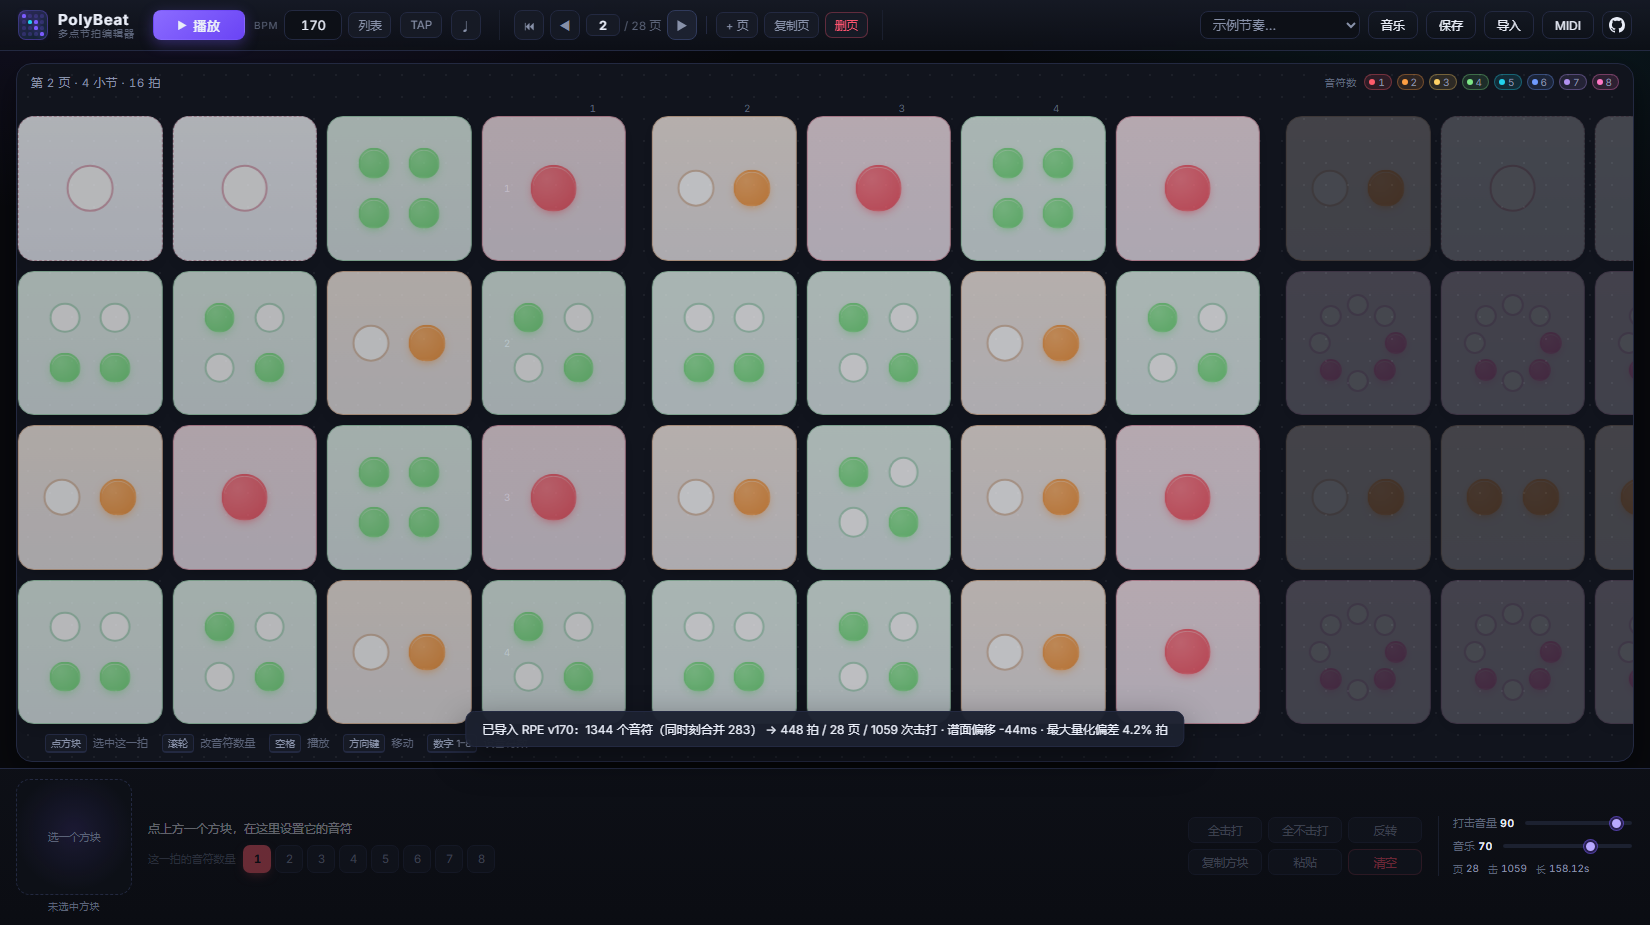
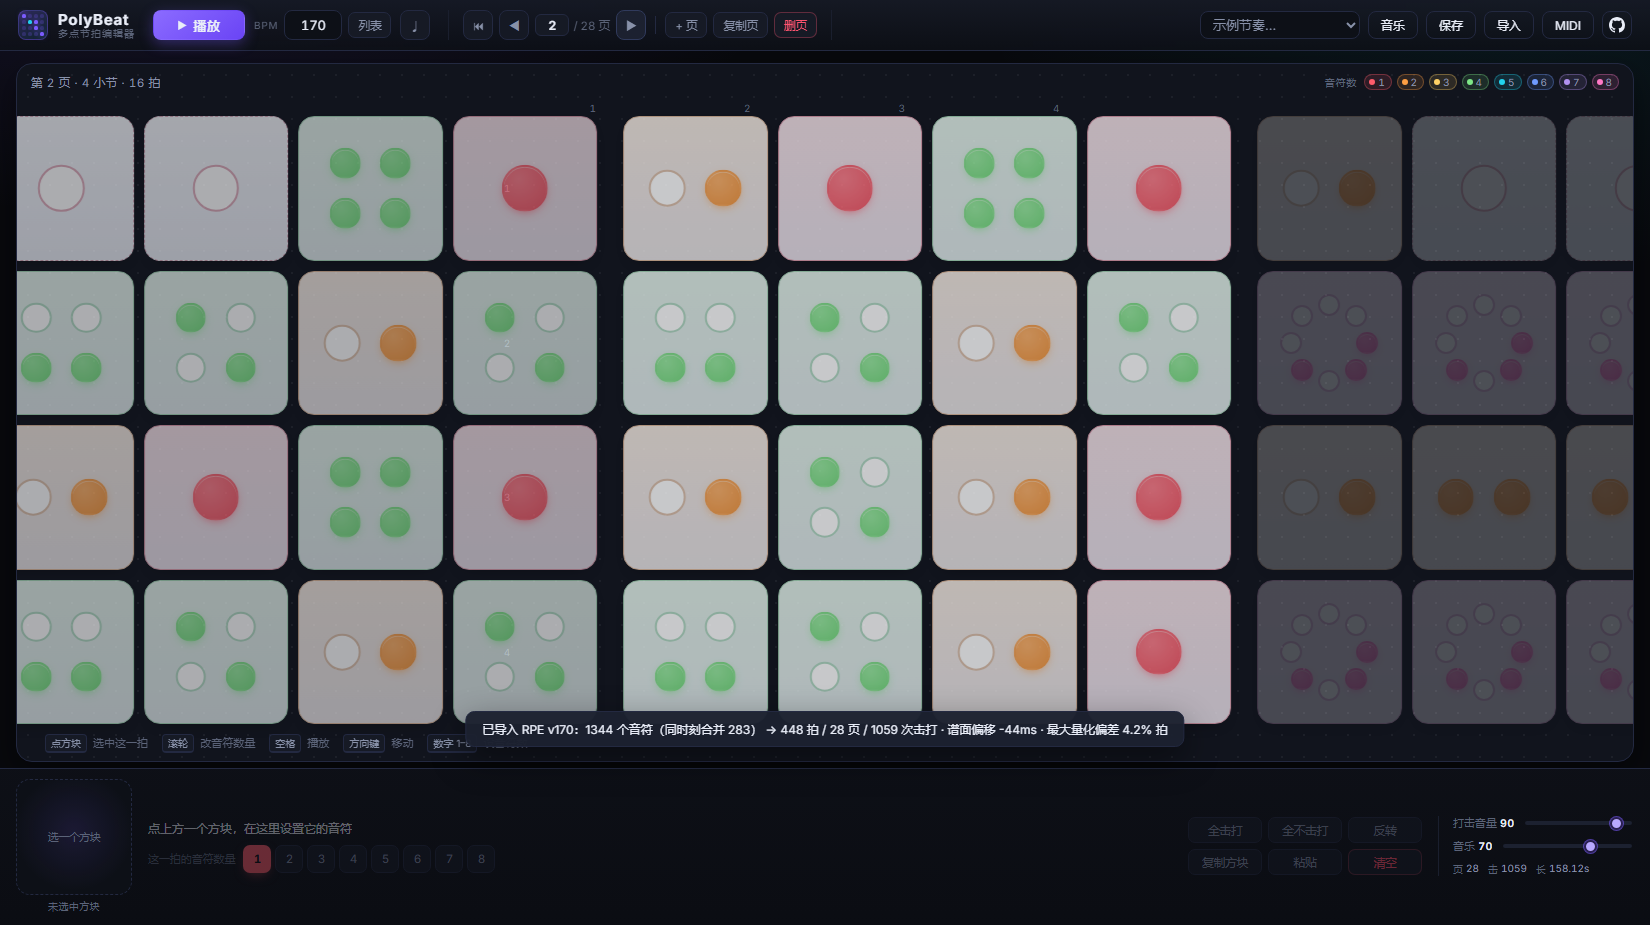
删掉 TAP 测速按钮

diff --git a/js/app.js b/js/app.js
@@ -711,25 +711,6 @@
       }
     });
 
-    const taps = [];
-    $('btnTap').addEventListener('click', () => {
-      const now = performance.now();
-      taps.push(now);
-      while (taps.length && now - taps[0] > 4000) taps.shift();
-      if (taps.length >= 2) {
-        const gaps = [];
-        for (let i = 1; i < taps.length; i++) gaps.push(taps[i] - taps[i - 1]);
-        const avg = gaps.reduce((a, b) => a + b, 0) / gaps.length;
-        if (avg > 150) {
-          const beat = currentBeatNo();
-          const tapped = Math.round((60000 / avg) * 100) / 100;
-          Project.setBpmAtBeat(beat, tapped);
-          refreshBpmInput();
-          UI.status(`第 ${beat} 拍起 ${Project.bpmAtBeat(beat)} BPM`);
-        }
-      }
-    });
-
     document.addEventListener('keydown', onKeydown);
   }
 

diff --git a/index.html b/index.html
@@ -25,7 +25,6 @@
       <input id="bpm" type="number" min="4" max="2000" step="0.01" value="100">
       <button id="btnTempo" class="btn btn-mini" title="BPM 列表：可以在指定拍数处变速">列表</button>
     </div>
-    <button id="btnTap" class="btn btn-mini" title="连点四次测速">TAP</button>
     <button id="btnMetro" class="btn btn-icon" title="节拍器开关" aria-pressed="false">♩</button>
   </div>
 

diff --git a/README.md b/README.md
@@ -90,7 +90,7 @@ node tools/embed-hit.js
 ## 播放
 
 - 支持逐拍变速（见上节），播放时每一拍按自己那段的速度走。
-- 支持连点 **TAP** 测速；节拍器独立开关。
+- 节拍器独立开关（工具栏的 ♩）。
 - 播放从当前页开始，**自动翻页**，播到最后一页再回到第一页循环。
 - **音乐比谱面长的时候不会提前切回第一页**：谱面的最后一拍放完，播放会停在最后一页**走空拍**（标题显示「· 空拍中」、方块变淡、不再高亮，开了节拍器还能听到空拍），一直等到音乐放完才回到第一页重来。谱面比音乐长时则按谱面长度循环，不受影响。
 - 播放中翻页会立刻从新页开头接着播。
